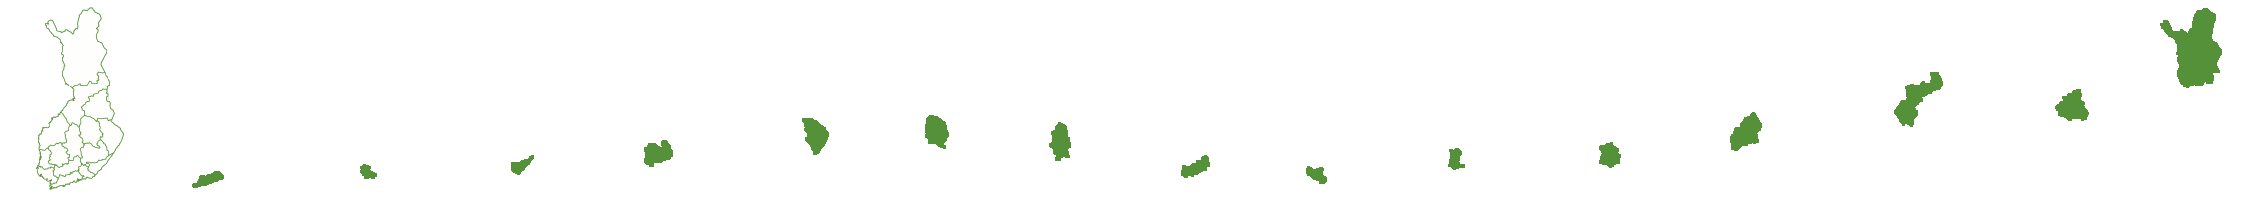
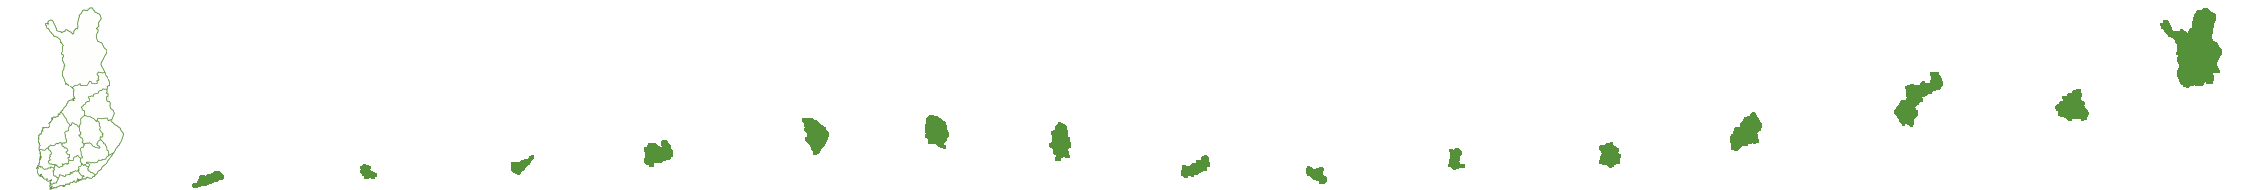
map height reduced

diff --git a/sll/portlet/browser/stylesheets/portlet.css b/sll/portlet/browser/stylesheets/portlet.css
@@ -6,15 +6,17 @@
     position: absolute;
     top: 0px;
     left: 0px;
-        width:141px;
-        height:200px;
+    width:141px;
+    /*height:200px;*/
+    height: 190px;
 }
 #map_container {
     position: relative;
-        width:141px;
-        height:200px;
-        padding:0px;
-        margin:0px;
+    width:141px;
+    /*height:200px;*/
+    height: 190px;
+    padding:0px;
+    margin:0px;
 }
 #map_container img {
     border: 0px;

diff --git a/sll/portlet/sllmap.py b/sll/portlet/sllmap.py
@@ -39,69 +39,6 @@ class Renderer(base.Renderer):
 
     areas = AREAS
 
-    # areas = (
-    #     {
-    #         'area': "uusimaa",
-    #         'coords': "49,189, 61,185, 63,186, 82,179, 82,186, 75,170, 63,176, 59,175, 57,180, 50,185, 49,189",
-    #     },
-    #     {
-    #         'area': "kymenlaakso",
-    #         'coords': "84,178, 88,177, 90,178, 94,175, 84,165, 82,165, 79,167, 78,170, 79,172, 83,177",
-    #     },
-    #     {
-    #         'area': "etela-karjala",
-    #         'coords': "96,173, 111,155, 109,155, 106,158, 104,159, 98,161, 96,163, 87,162, 89,164, 89,166, 88,166, 88,168, 90,171, 94,173",
-    #     },
-    #     {
-    #         'area': "etela-savo",
-    #         'coords': "87,165, 88,165, 88,164, 86,163, 86,161, 96,161, 99,159, 102,159, 108,155, 105,146, 100,141, 99,141, 98,142, 98,148, 93,147, 89,143, 85,143, 81,148, 83,157, 81,159, 81,161",
-    #     },
-    #     {
-    #         'area': "pohjois-karjala",
-    #         'coords': "109,153, 112,153, 120,141, 122,135, 122,133, 119,129, 110,121, 106,119, 98,119, 98,120, 100,123, 100,129, 103,133, 103,136, 100,139, 104,142, 107,146",
-    #     },
-    #     {
-    #         'area': "pohjois-savo",
-    #         'coords': "83,142, 90,142, 95,146, 97,146, 96,145, 96,142, 99,139, 99,137, 102,134, 99,130, 98,123, 90,117, 84,116, 81,119, 81,125, 80,125, 80,136, 83,138",
-    #     },
-    #     {
-    #         'area': "keski-suomi",
-    #         'coords': "69,127, 72,124, 74,124, 78,127, 78,130, 79,131, 79,138, 81,138, 81,142, 82,143, 82,145, 79,148, 79,151, 80,152, 80,156, 79,156, 78,155, 75,155, 72,157, 72,159, 70,159, 70,153, 68,153, 67,152, 67,146, 63,146, 63,144, 64,144, 67,141, 66,139, 66,132, 69,130",
-    #     },
-    #     {
-    #         'area': "etela-hame",
-    #         'coords': "64,175, 74,170, 77,169, 78,166, 80,165, 80,162, 79,161, 79,158, 77,156, 74,158, 72,161, 69,161, 68,163, 64,164, 61,167, 58,167, 55,165, 54,168, 54,175, 56,176, 60,174",
-    #     },
-    #     {
-    #         'area': "varsinais-suomi",
-    #         'coords': "39,167, 38,169, 38,173, 50,183, 56,182, 56,178, 52,175, 52,168, 43,170, 39,166",
-    #     },
-    #     {
-    #         'area': "satakunta",
-    #         'coords': "40,150, 40,163, 38,165, 41,165, 44,168, 49,167, 53,166, 53,165, 49,164, 47,162, 48,159, 49,155, 50,152, 47,149, 43,151, 40,150",
-    #     },
-    #     {
-    #         'area': "pirkanmaa",
-    #         'coords': "49,161, 49,162, 50,163, 54,163, 58,166, 63,164, 65,162, 67,162, 67,157, 68,156, 68,155, 66,154, 65,151, 66,150, 66,149, 63,147, 60,143, 56,144, 54,146, 50,146, 49,147, 49,149, 52,152, 51,154, 50,155, 50,160",
-    #     },
-    #     {
-    #         'area': "pohjanmaa",
-    #         'coords': "40,148, 44,149, 50,144, 54,144, 56,142, 65,142, 64,139, 64,131, 67,129, 68,126, 68,124, 60,112, 56,117, 51,118, 49,124, 49,127, 42,127, 41,133, 38,136, 39,149",
-    #     },
-    #     {
-    #         'area': "pohjois-pohjanmaa",
-    #         'coords': "73,87, 79,85, 87,85, 89,81, 92,84, 96,84, 98,82, 98,73, 104,73, 107,78, 108,84, 106,86, 106,88, 101,88, 92,95, 88,96, 88,99, 80,107, 83,112, 83,115, 79,119, 79,124, 75,123, 74,122, 69,122, 61,111, 69,101, 74,98",
-    #     },
-    #     {
-    #         'area': "kainuu",
-    #         'coords': "82,107, 90,100, 90,97, 102,90, 106,90, 106,101, 109,103, 109,107, 113,112, 113,114, 111,119, 108,119, 108,118, 104,117, 98,117, 96,119, 93,117, 88,115, 85,115, 85,111, 83,109",
-    #     },
-    #     {
-    #         'area': "lappi",
-    #         'coords': "69,85, 65,81, 63,76, 63,44, 47,27, 45,24, 50,20, 52,21, 57,31, 64,31, 66,29, 73,33, 77,27, 78,15, 82,10, 92,7, 100,15, 100,19, 98,23, 96,39, 101,43, 107,51, 100,64, 103,71, 98,71, 96,73, 97,76, 97,87, 96,82, 92,82, 90,80, 88,81, 86,84, 81,84, 80,83, 78,83, 77,84, 74,84, 72,86",
-    #     },
-    # )
-
     @property
     def available(self):
         items = [area['area'] for area in self.areas]
@@ -199,7 +136,8 @@ class Renderer(base.Renderer):
 
     @property
     def transparent_gif(self):
-        return '{0}/++resource++sll.portlet.images/transparent.gif'.format(self.portal_url)
+        # return '{0}/++resource++sll.portlet.images/transparent.gif'.format(self.portal_url)
+        return '{}/++resource++sll.portlet.images/transparent.png'.format(self.portal_url)
 
     def title(self):
         return self.data.name or self.data.title()
